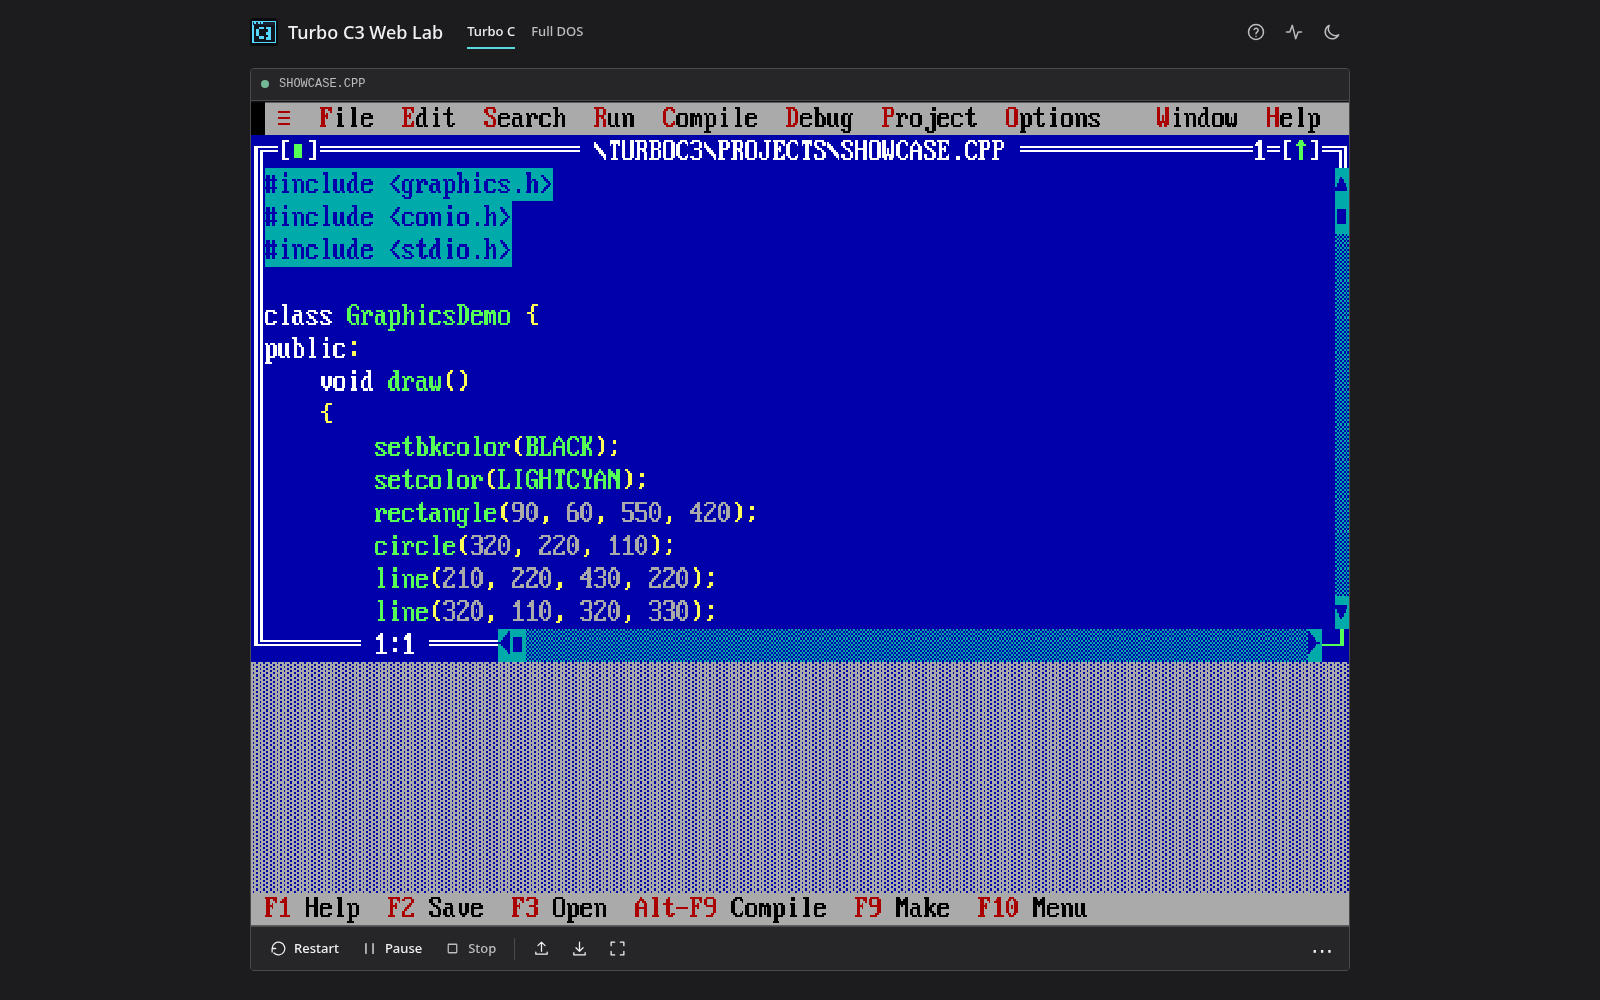
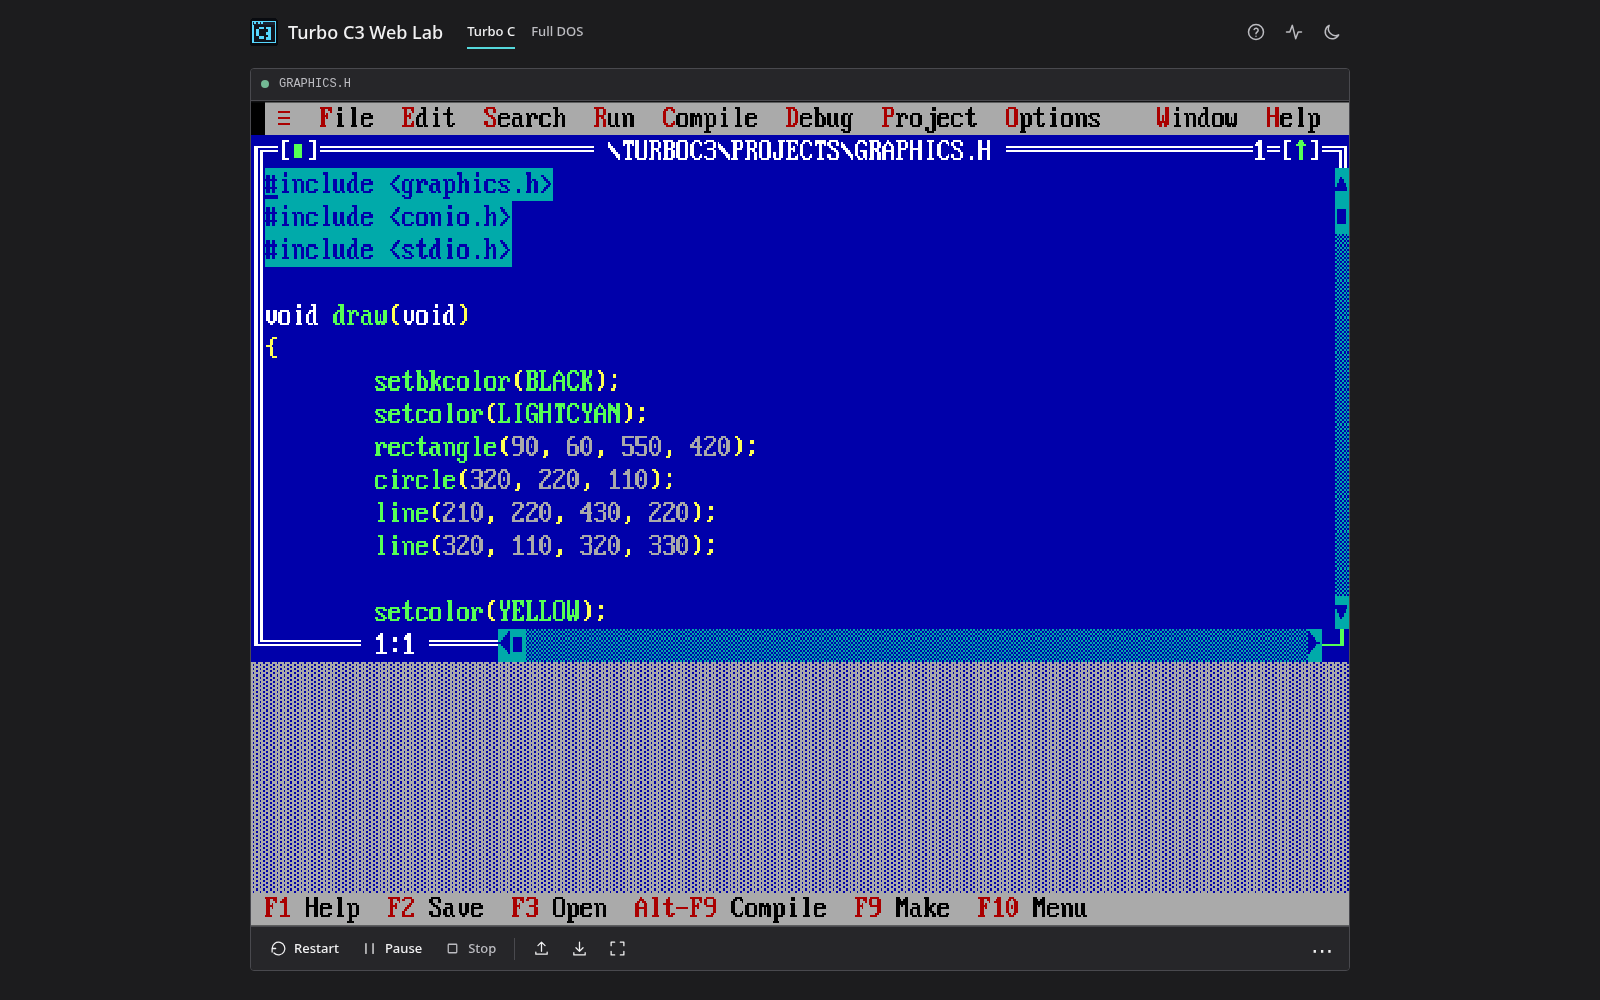
fix: rename default graphics demo to GRAPHICS.H

Changed region(s): [[0.1562, 0.31, 0.4688, 0.62], [0.375, 0.124, 0.625, 0.155], [0.1875, 0.062, 0.2188, 0.093]]

diff --git a/app.js b/app.js
@@ -1,10 +1,10 @@
 (() => {
   "use strict";
 
-  const SOURCE_ARCHIVE_URL = "Turboc3.zip?v=cpp-demo-1";
+  const SOURCE_ARCHIVE_URL = "Turboc3.zip?v=graphics-h-demo-1";
   const EMULATORS_PATH_PREFIX =
     "https://cdn.jsdelivr.net/npm/js-dos@8.5.3/dist/emulators/";
-  const SHOWCASE_PATH = "TURBOC3/Projects/SHOWCASE.CPP";
+  const GRAPHICS_DEMO_PATH = "TURBOC3/Projects/GRAPHICS.H";
   const REQUIRED_RUNTIME_FILES = [
     "TURBOC3/BIN/TC.EXE",
     "TURBOC3/BIN/TCC.EXE",
@@ -12,22 +12,22 @@
     "TURBOC3/INCLUDE/GRAPHICS.H",
     "TURBOC3/LIB/GRAPHICS.LIB",
     "TURBOC3/BGI/EGAVGA.BGI",
-    SHOWCASE_PATH,
+    GRAPHICS_DEMO_PATH,
   ];
 
   const BGI_SELF_TEST = new URLSearchParams(location.search).has("bgi-test");
   const START_COMMAND = BGI_SELF_TEST
     ? `set PATH=C:\\TURBOC3\\BIN
 cd \\TURBOC3\\PROJECTS
-TCC.EXE -IC:\\TURBOC3\\INCLUDE -LC:\\TURBOC3\\LIB SHOWCASE.CPP C:\\TURBOC3\\LIB\\GRAPHICS.LIB
+TCC.EXE -IC:\\TURBOC3\\INCLUDE -LC:\\TURBOC3\\LIB GRAPHICS.H C:\\TURBOC3\\LIB\\GRAPHICS.LIB
 if errorlevel 1 goto compile_failed
-SHOWCASE.EXE
+GRAPHICS.EXE
 goto self_test_done
 :compile_failed
 echo BGI_SELF_TEST_COMPILE_FAILED
 :self_test_done`
     : `cd \\TURBOC3\\BIN
-TC.EXE C:\\TURBOC3\\PROJECTS\\SHOWCASE.CPP`;
+TC.EXE C:\\TURBOC3\\PROJECTS\\GRAPHICS.H`;
 
   const DOSBOX_CONF = `[sdl]
 fullscreen=false
@@ -311,7 +311,7 @@ ${START_COMMAND}
     $("modeDos").setAttribute("aria-pressed",String(isDos));
     $("dosQuickBar").hidden=!isDos;
     $("dosHelp").hidden=!isDos;
-    $("windowTitle").textContent=isDos?"DOSBOX — C:\\>":"TURBOC3 — NONAME00.CPP";
+    $("windowTitle").textContent=isDos?"DOSBOX — C:\\>":"TURBOC3 — GRAPHICS.H";
     $("stepLaunch").textContent=isDos?"03 · Opening DOS prompt":"03 · Launching Turbo C";
     $("loadingRoot").textContent=isDos?"C:\\>":"C:\\TURBOC3>";
     $("errorTitle").textContent=isDos?"Could not start Full DOS":"Could not start Turbo C";

diff --git a/index.html b/index.html
@@ -7,8 +7,8 @@
   <meta name="description" content="Turbo C Online IDE: run Turbo C/C++ 3.0 and Borland graphics.h BGI programs in your browser with a fast, keyboard-friendly development environment.">
   <title>Turbo C3 Web Lab</title>
   <link rel="icon" type="image/svg+xml" href="favicon.svg">
-  <link rel="stylesheet" href="styles.css?v=auto-launch-1">
-  <script src="app.js?v=auto-launch-1" defer></script>
+  <link rel="stylesheet" href="styles.css?v=graphics-h-demo-1">
+  <script src="app.js?v=graphics-h-demo-1" defer></script>
 </head>
 <body data-theme="dark">
   <svg class="icon-sprite" xmlns="http://www.w3.org/2000/svg" aria-hidden="true" focusable="false">
@@ -53,7 +53,7 @@
     <main class="main-workspace">
       <section class="monitor" id="monitor" aria-label="Turbo C3 emulator window">
         <div class="monitor-titlebar">
-          <div class="title-left"><span class="status-dot" id="statusDot" role="img" aria-hidden="false" aria-labelledby="stateLabel" tabindex="0"></span><span id="stateLabel" class="sr-only" role="status" aria-live="polite">Stopped</span><span class="window-caption" id="windowTitle">TURBOC3 — NONAME00.CPP</span></div>
+          <div class="title-left"><span class="status-dot" id="statusDot" role="img" aria-hidden="false" aria-labelledby="stateLabel" tabindex="0"></span><span id="stateLabel" class="sr-only" role="status" aria-live="polite">Stopped</span><span class="window-caption" id="windowTitle">TURBOC3 — GRAPHICS.H</span></div>
           <div class="title-right sr-only"><span id="savedIndicator" class="saved-indicator sr-only">Clean session</span><span id="focusBadge" class="focus-badge sr-only">Not focused</span></div>
         </div>
 

diff --git a/styles.css b/styles.css
@@ -465,7 +465,7 @@ input[type=checkbox] { width: 18px; height: 18px; accent-color: var(--accent); }
   margin: 0; font-size: 0 !important; line-height: 0; color: transparent;
 }
 .window-caption::after {
-  content: "SHOWCASE.CPP"; font: 12px/1.4 var(--mono);
+  content: "GRAPHICS.H"; font: 12px/1.4 var(--mono);
   color: var(--muted); white-space: nowrap;
 }
 .app[data-mode="dos"] .window-caption::after { content: "C:\\>"; }

diff --git a/examples/GRAPHICS.H b/examples/GRAPHICS.H
@@ -1,0 +1,37 @@
+#include <graphics.h>
+#include <conio.h>
+#include <stdio.h>
+
+void draw(void)
+{
+        setbkcolor(BLACK);
+        setcolor(LIGHTCYAN);
+        rectangle(90, 60, 550, 420);
+        circle(320, 220, 110);
+        line(210, 220, 430, 220);
+        line(320, 110, 320, 330);
+
+        setcolor(YELLOW);
+        outtextxy(185, 370, "Turbo C++ / graphics.h works!");
+        setcolor(LIGHTGREEN);
+        outtextxy(230, 390, "Turbo C3 Web Lab");
+}
+
+int main()
+{
+    int gd = DETECT, gm, err;
+
+    initgraph(&gd, &gm, "C:\\TURBOC3\\BGI");
+    err = graphresult();
+    if (err != grOk) {
+        printf("Graphics error: %s\n", grapherrormsg(err));
+        getch();
+        return 1;
+    }
+
+    draw();
+
+    getch();
+    closegraph();
+    return 0;
+}

diff --git a/AGENTS.md b/AGENTS.md
@@ -2,7 +2,7 @@
 
 - Static browser application: HTML, CSS, JavaScript, js-dos 8.5.3, and a legacy Turbo C3 runtime.
 - Preserve clean-session behavior, classic Turbo C IDE usability, and `graphics.h`/BGI compatibility.
-- Keep `examples/SHOWCASE.CPP`, the bundled `TURBOC3/Projects/SHOWCASE.CPP` inside `Turboc3.zip`, app startup commands, auto-launch flow, and tests synchronized.
+- Keep `examples/GRAPHICS.H`, the bundled `TURBOC3/Projects/GRAPHICS.H` inside `Turboc3.zip`, app startup commands, auto-launch flow, and tests synchronized.
 - Keep js-dos and fflate versions pinned unless the task explicitly requires updating them.
 - Read `README.md` and inspect `git status --short` before changes.
 - Run `node --check app.js`, `git diff --check`, and existing relevant tests.
@@ -19,4 +19,5 @@
 - Validate archive central-directory size limits before asynchronous decompression and reject unsafe paths.
 - The bundled Turbo C components are third-party legacy software; review redistribution permissions before public release.
 - Do not commit, push, publish, or deploy unless explicitly requested.
-- The sole included example is SHOWCASE.CPP using graphics.h. Auto-launch selected mode; keep Restart usable after Stop. No Start button or sample chooser.
+- The sole included example is GRAPHICS.H using graphics.h. Auto-launch selected mode; keep Restart usable after Stop. No Start button or sample chooser.
+- The project demo is TURBOC3/Projects/GRAPHICS.H, distinct from TURBOC3/INCLUDE/GRAPHICS.H. Keep demo valid Turbo C syntax (.H is parsed as C), F9 and Ctrl+F9 working, and never alter the Borland include header.

diff --git a/README.md b/README.md
@@ -8,7 +8,7 @@ Run **Turbo C / Turbo C++ 3.0** in your browser with classic Borland **graphics.
 
 ## Features
 
-- **Turbo C++ IDE:** Edit, compile, and run legacy C/C++ programs, including the built-in `SHOWCASE.CPP` graphics demo.
+- **Turbo C++ IDE:** Edit, compile, and run legacy C/C++ programs, including the built-in `GRAPHICS.H` graphics demo.
 - **Full DOS mode:** Use a DOS prompt, run your own DOS software, manage files, and mount floppy/CD images.
 - **graphics.h / BGI:** Includes Borland graphics libraries and drivers for classic computer-graphics programs.
 - **Local workspace:** Import C/C++ files and ZIP archives, save in your browser, and export files or a ZIP backup.
@@ -17,8 +17,8 @@ Run **Turbo C / Turbo C++ 3.0** in your browser with classic Borland **graphics.
 
 ## Getting started
 
-1. Open the website. **Turbo C++ 3.0 launches automatically** with SHOWCASE.CPP already open.
-2. The only included demo, SHOWCASE.CPP, uses **graphics.h / BGI**. Select **Run > Run** or press **Ctrl+F9**.
+1. Open the website. **Turbo C++ 3.0 launches automatically** with GRAPHICS.H already open.
+2. The only included demo, `GRAPHICS.H`, uses **graphics.h / BGI**. Select **Run > Run** or press **Ctrl+F9**. It is separate from Borland’s actual `INCLUDE/GRAPHICS.H` and uses Turbo C syntax so it compiles as a `.H` file.
 3. Use **F2** to save, **Alt+F9** to compile, **Ctrl+F9** to run, and **Alt+F5** for output. Switch to **Full DOS** in the header.
 4. Use **Download** to export files; **More** includes scaling and mouse repair. After **Stop**, select **Restart**.
 
